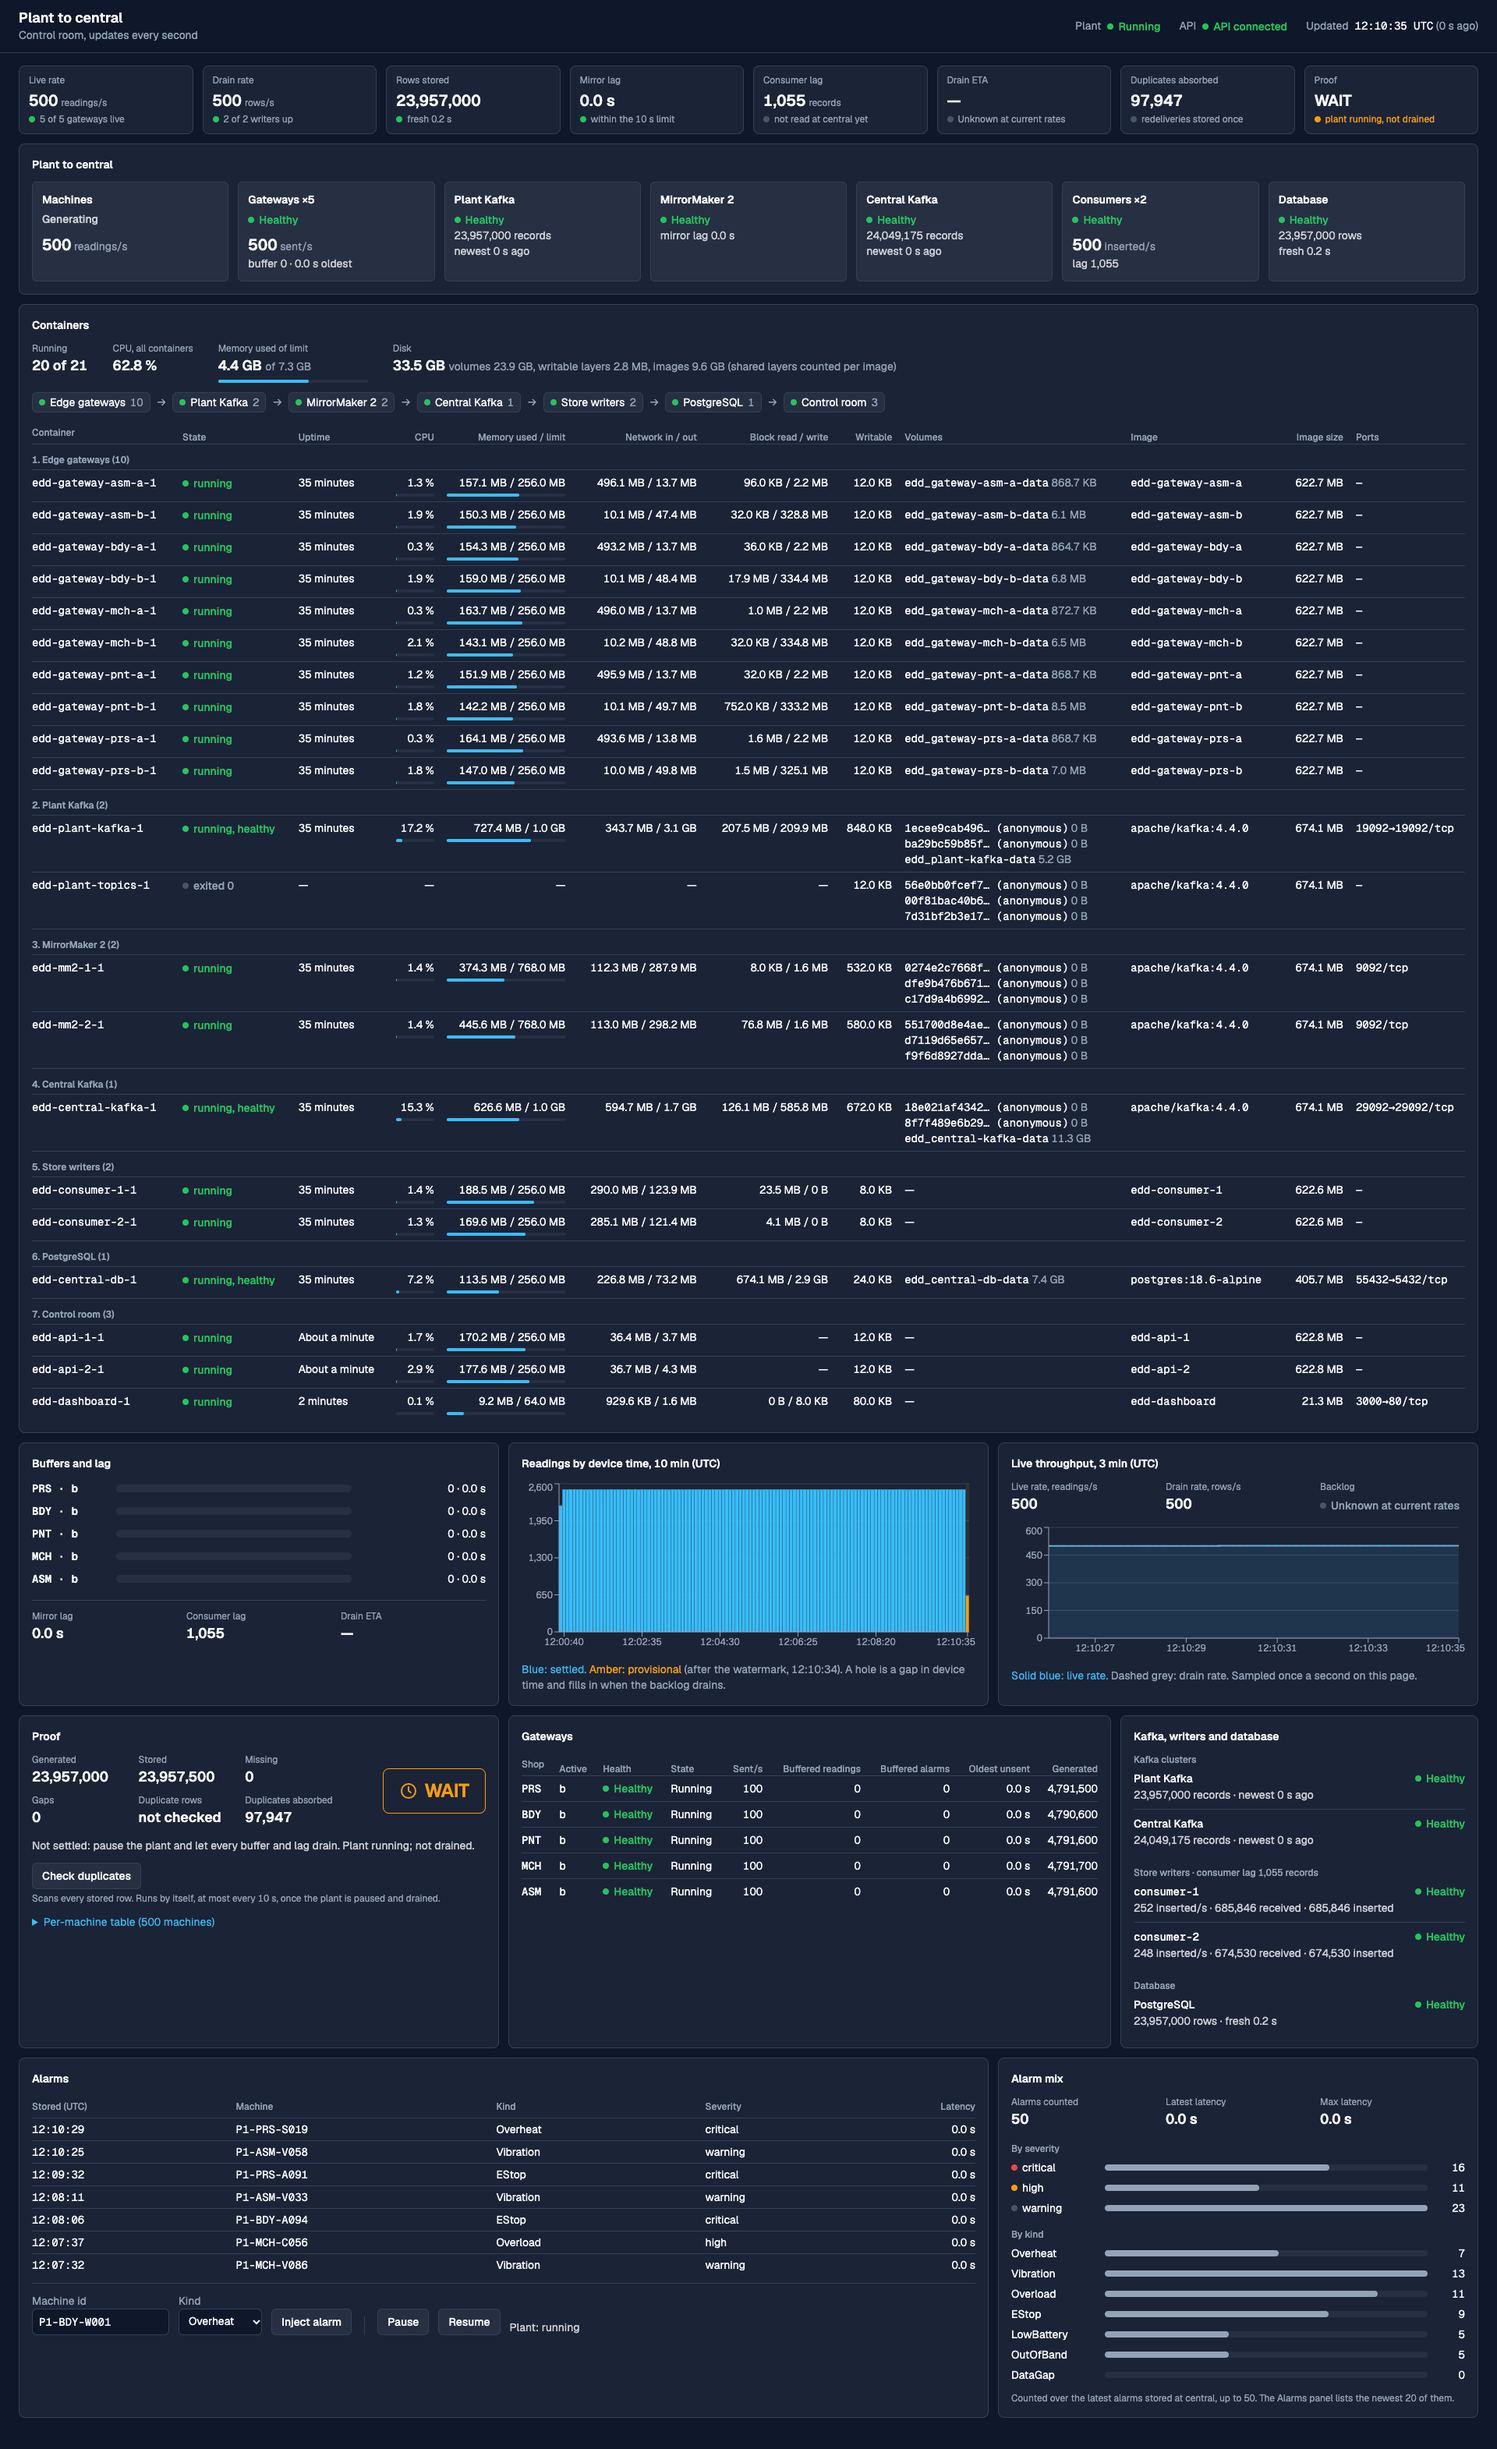
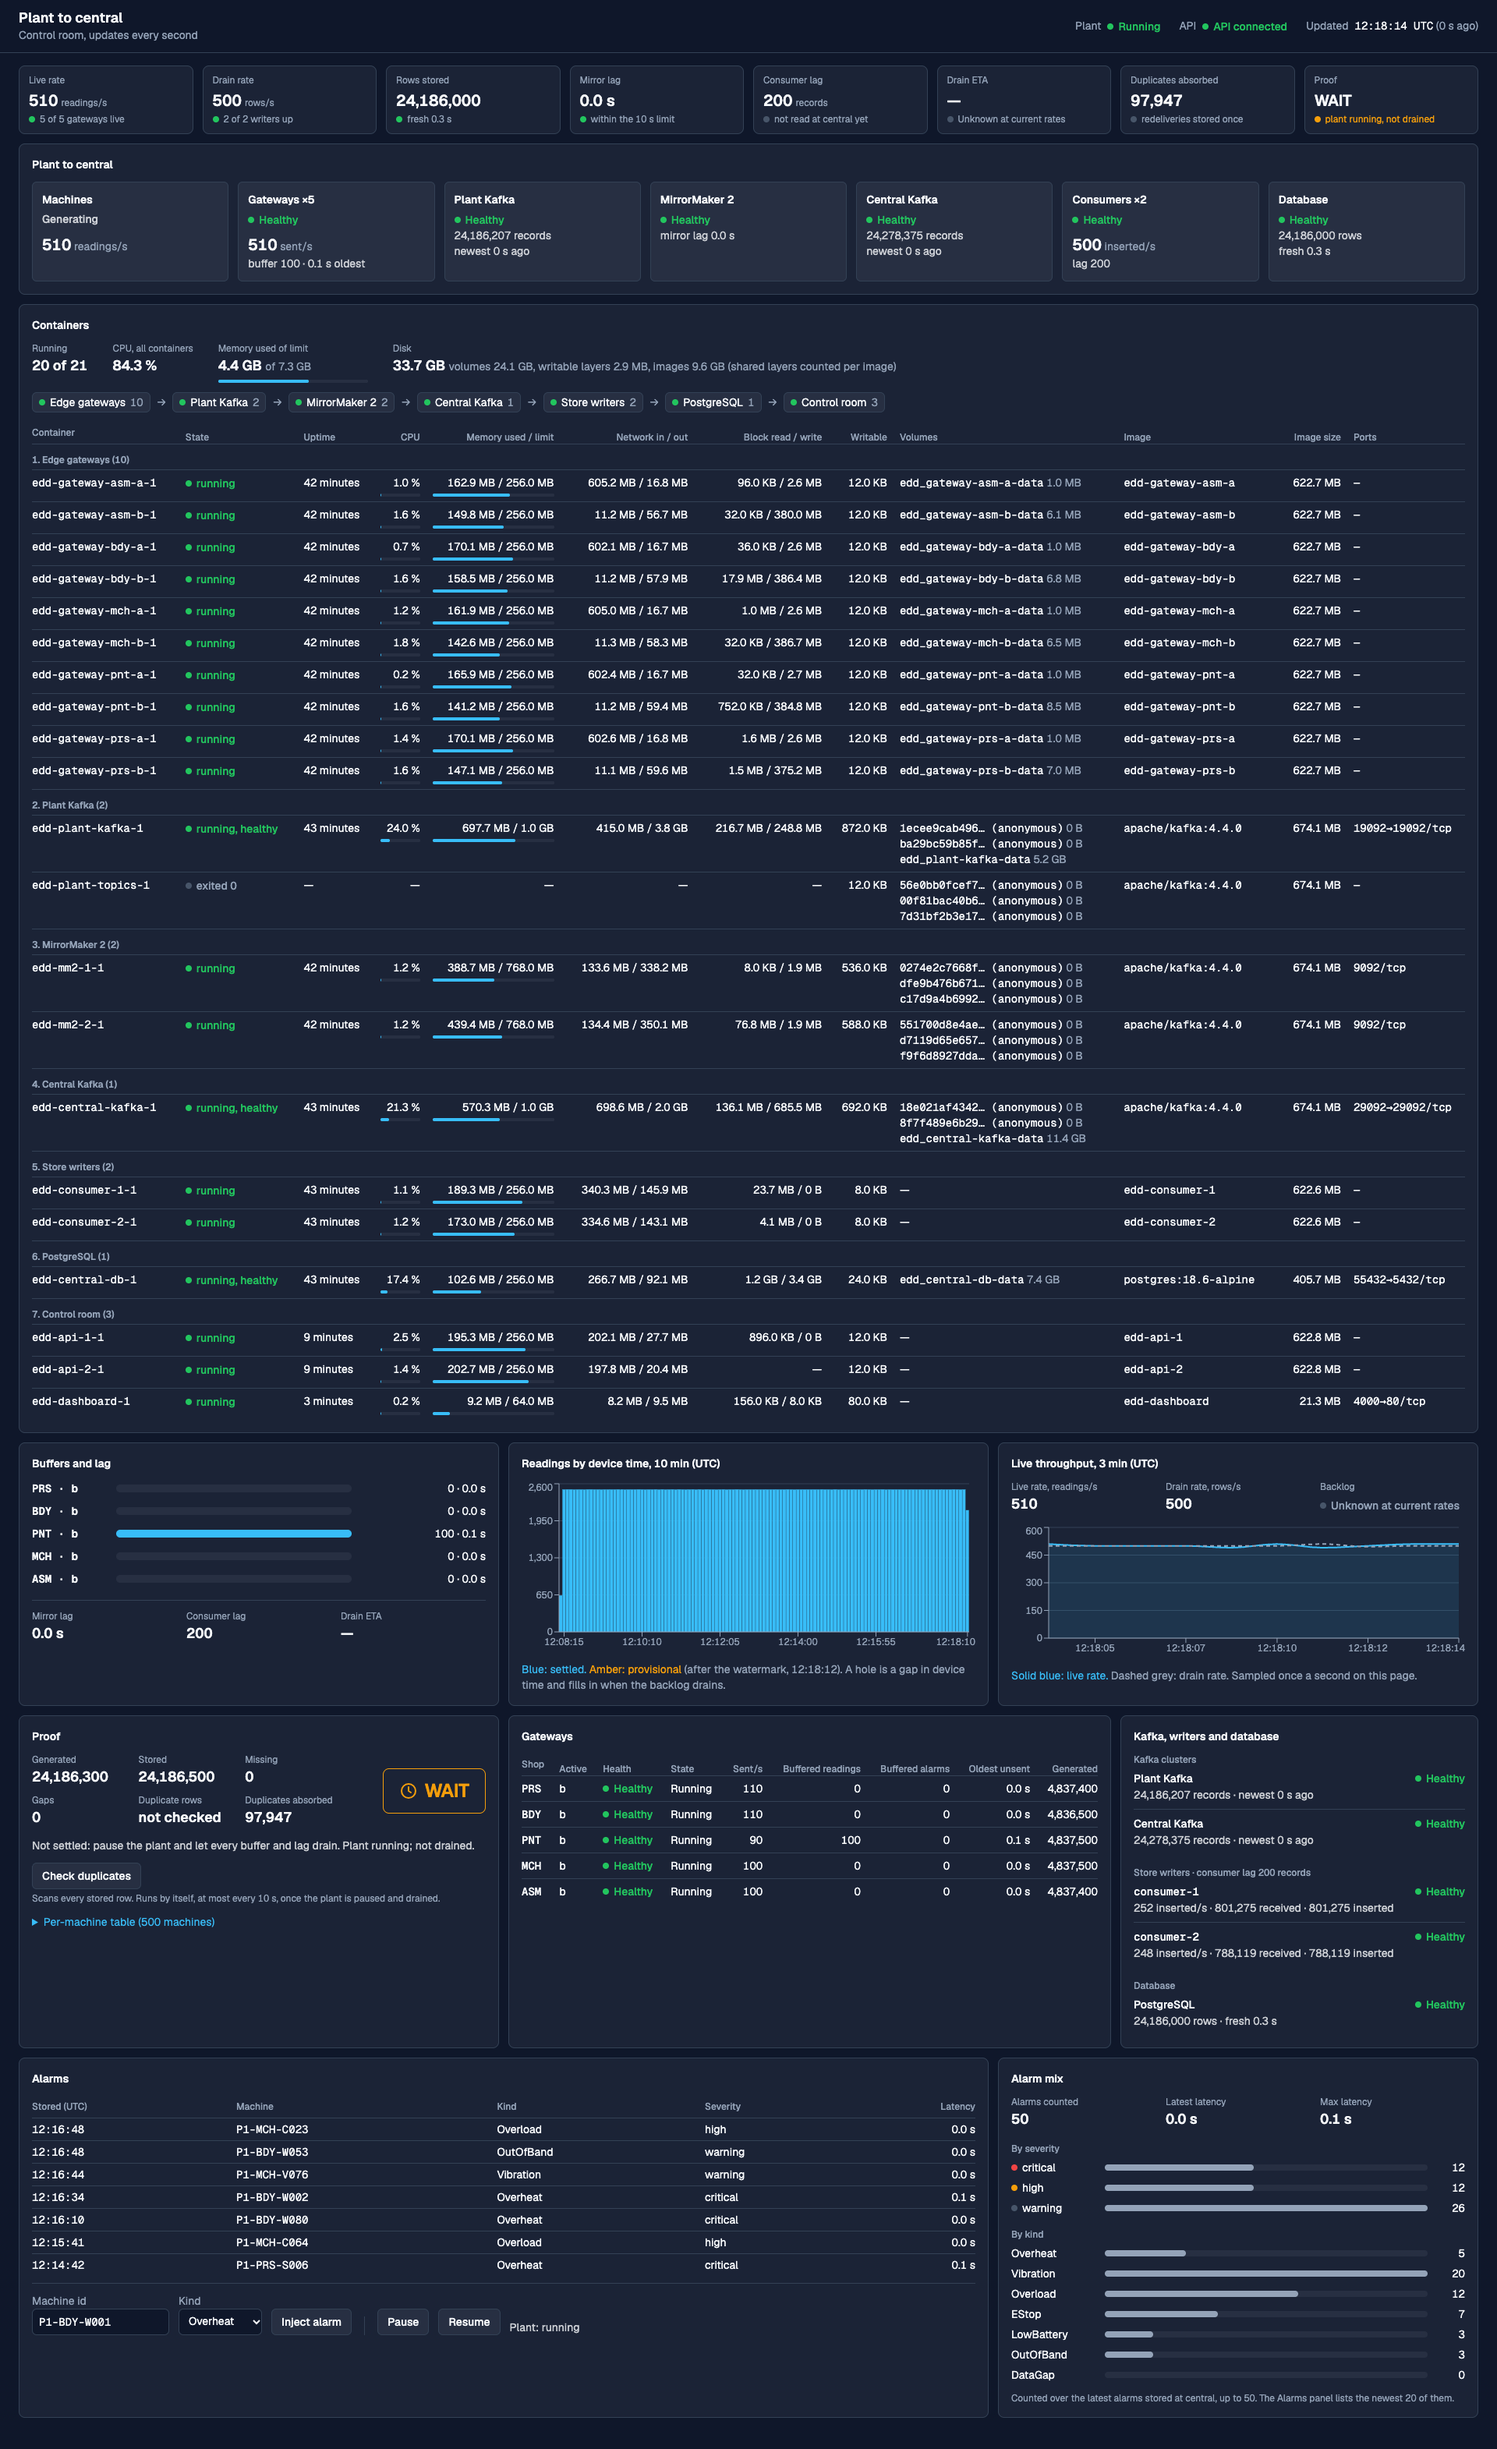
docs: put the full-page dashboard screenshot after the architecture diagram

diff --git a/README.md b/README.md
@@ -4,6 +4,10 @@ Event-driven proof in .NET 11 and Kafka 4.4 for a plant scenario: about 500 mach
 
 ![Plant to central: every container, port and data store](docs/diagrams/01-plant-to-central.svg)
 
+![The control-room dashboard, full page: header, KPI strip, pipeline, all 21 containers with CPU, memory, disk and ports, buffers, readings chart, live throughput, proof, gateways, Kafka and database, alarms and alarm mix](docs/screenshots/dashboard.png)
+
+The control room at <http://localhost:4000>, captured live at 1920 px with `bun src/scripts/live/capture-dashboard.ts`.
+
 | # | Document | What it holds |
 | --- | --- | --- |
 | 1 | [`docs/00-edd-demo-game-plan.md`](docs/00-edd-demo-game-plan.md) | Build spec for the demo: containers, contracts, services, drills, tests, build plan |
@@ -167,9 +171,7 @@ Errors are values, not exceptions:
 
 ## Frontend codebase
 
-![The control-room dashboard: header, KPI strip, pipeline, buffers, readings chart, live throughput, proof, gateways, Kafka and database, alarms and alarm mix](docs/screenshots/dashboard.png)
-
-The control room at 1920 px, captured live with `bun src/scripts/live/capture-dashboard.ts`.
+The full-page dashboard screenshot is at the top of this README, after the architecture diagram.
 
 ![Frontend codebase: build and serve, the start chain from index.html to App, every component with its props, the data layer and the nginx routes](docs/diagrams/10-frontend-codebase.svg)
 
